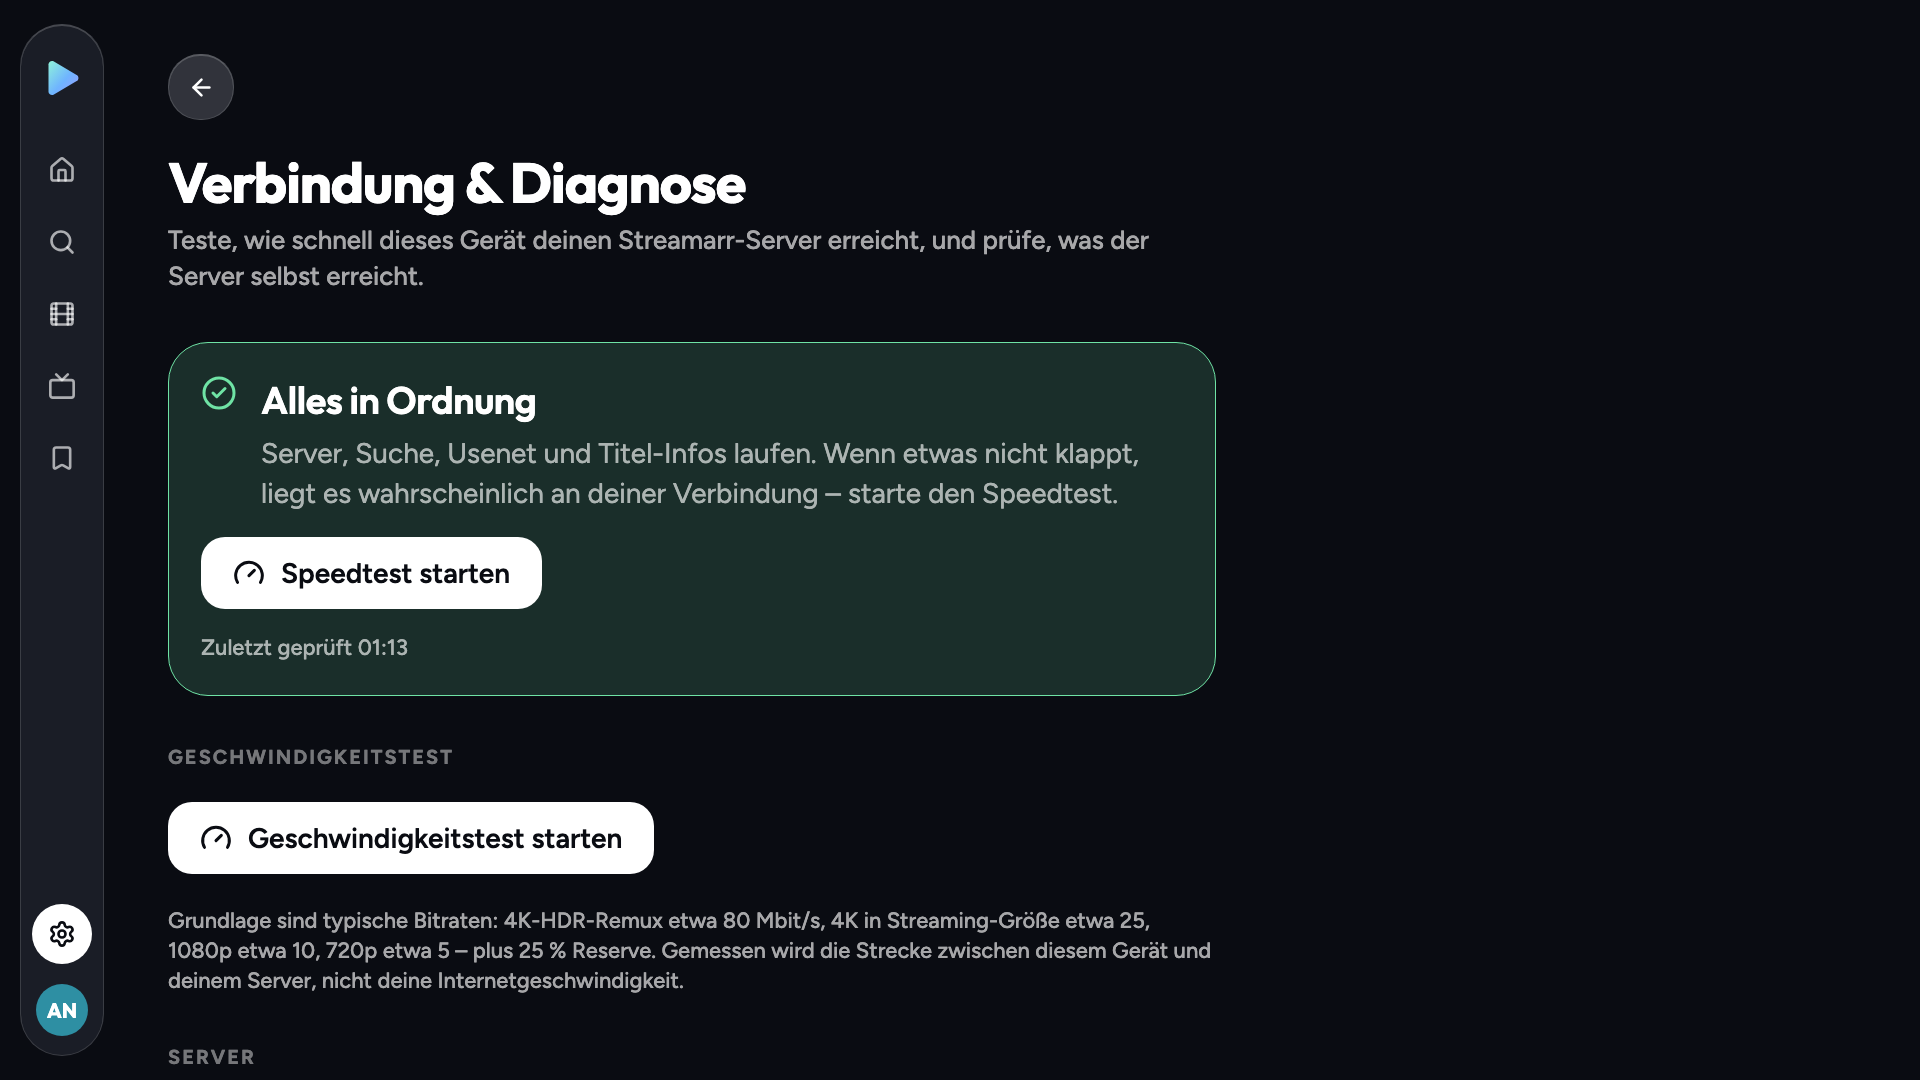
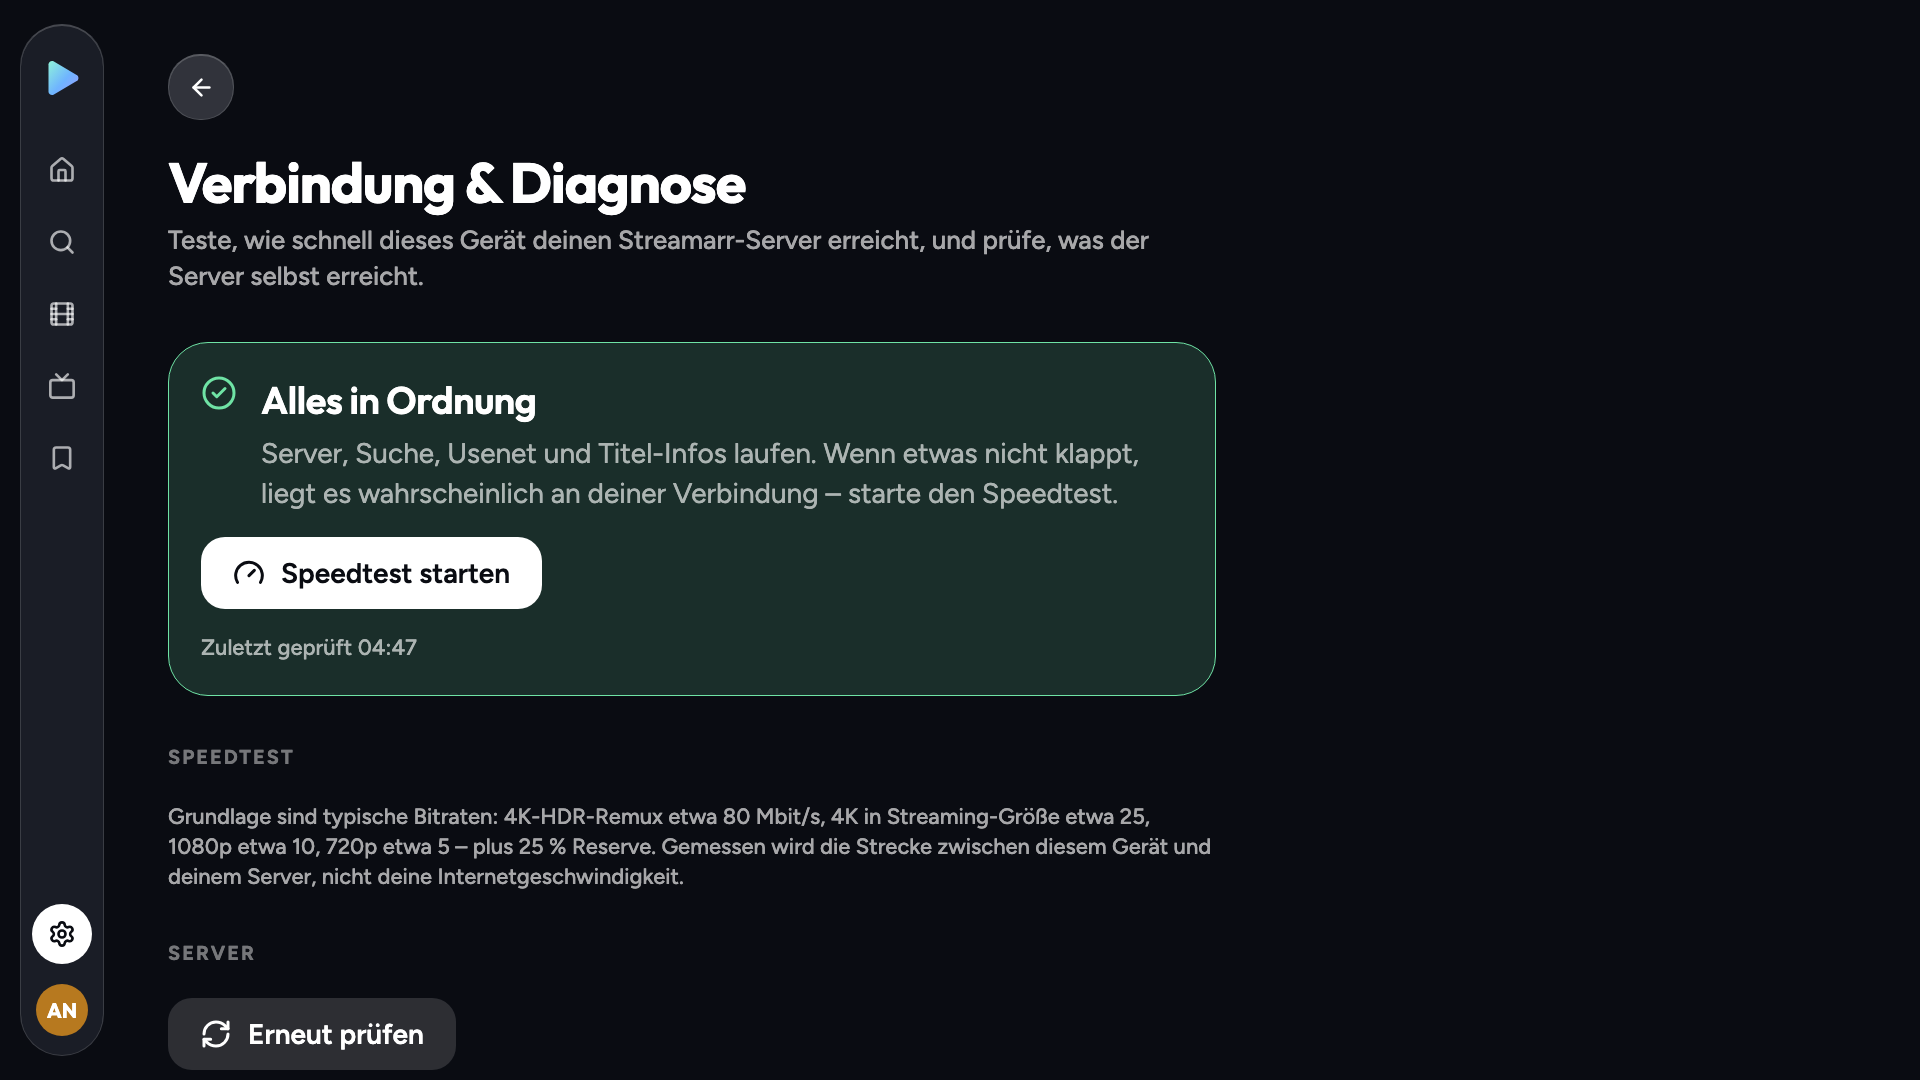
docs: outage-led failure card and single speed test (STATUS follow-up, screenshots)

Changed region(s): [[0.0, 0.7333, 0.625, 1.0], [0.0938, 0.6722, 0.2188, 0.7028], [0.1875, 0.5806, 0.2188, 0.6111]]

diff --git a/docs/client/journal/STATUS.md b/docs/client/journal/STATUS.md
@@ -85,3 +85,34 @@ Commits: e815343 server, 47c2f94 web, cc54516 client, 81d1712 client fix, 645dc6
 - Dev World's failure card for Usenet down shows release_dead (the server's classification); the card's outage line
   still names the cause.
 - The 13 transcoding test failures with ffmpeg 9.0.1 remain (environment).
+
+## Follow-up (2026-10-24): outage-led failure card, one speed test button
+
+Status: done
+
+- Failure card: while the status reports a problem whose impacts include playbackUnavailable/playbackMayFail with a
+  broken usenet or server category (`playbackOutage`, same mapping as the server's impacts; search, TMDB and
+  slowness never count), the card leads with "Störung auf dem Server" / "Server-side outage", the body names the
+  category + impact + "not your device" (+ "Der Admin wird automatisch benachrichtigt." only with adminNotified), and
+  the buttons are Serverstatus anzeigen (primary, TV initial focus) · Erneut versuchen · Andere Version wählen (only if
+  the server offered it) · Zurück; lower quality / VLC are dropped. Footnote line, release reason and the "pick another
+  version" hint are hidden then. Without an outage the card is unchanged.
+- Decision: failures an outage cannot explain keep their own card even during an outage (sign-in, access, not_found,
+  the device's connection, app-internal codes such as player_internal_error/player_load_failed, capability errors).
+- Decision: the status is read in a small FailureCause component under the card, so the player itself does not
+  subscribe to the polled status query during playback (render-loop test).
+- Diagnostics: exactly one "Speedtest starten" / "Start speed test". All fine + idle: only the verdict's button; it
+  starts the test, scrolls to the speed section (native) and moves focus to its button (TV preferred focus, web
+  useInitialFocus), which from then on is "Erneut testen" (+ Abbrechen while running) while the verdict's button goes.
+  During a problem the verdict keeps "Erneut prüfen" and the speed section its own start button. de wording:
+  "Speedtest" everywhere (section title, button, error); en "Start speed test" in both keys.
+- Verification: client tsc ok, expo lint ok, prettier ok, jest 2188/2190 (194 suites; the 2 tab-guard failures are
+  pre-existing). New tests: card-actions (2), failure card outage/no-outage/TV focus/sign-in (4), playbackOutage +
+  German message (2), single speed button + handoff and problem-state button (in the verdict/settings tests).
+- Screenshots (Dev World 39320 --tree, Expo web 39321, Usenet down via provider username "nobody", Pushover on):
+  docs/client/screenshots/STATUS/web-tv-1920-player-failure-outage-de.png, web-phone-390-player-failure-outage-de.png,
+  web-tv-1920-player-failure-no-outage-de.png (resolve_dead fault, no outage: unchanged card), web-tv-1920-diagnostics-ok-de.png
+  (refreshed, one button), web-tv-1920-diagnostics-ok-after-speedtest-de.png (focus on "Erneut testen").
+  web-tv-1920-player-failure-de.png (old footnote card) removed. Stack stopped afterwards.
+- Open: on the 390 px phone the start stepper's long release names overflow the card sideways (pre-existing, not part
+  of this change). TV focus verified in jest only (no device run).

diff --git a/docs/client/JOURNAL.md b/docs/client/JOURNAL.md
@@ -171,3 +171,4 @@ Append-only. One line per task outcome; details in `journal/<TASK-ID>.md`.
 - DIAG · follow-up · done · speed test needs ~20 requests (one long download per stream, few large uploads), rate limits per signed-in user instead of IP, web phases run the full 8 s; three tests in a row without 429 (server, client, web tests + live run) → journal/DIAG.md
 - MYLIST · done · My List tab: auto-added started series + manual movies/series/seasons, derived status/progress, server monitor flags new episodes only once usable releases exist (bounded, indexer-safe), badge on rail/native tabs/web bar, list toggles on details, Pushover opt-in; server MyList 7/7, Server.Tests 1569/1582 (13 transcoding tests fail on local ffmpeg 9, untouched code), web 245/245, jest 2142/2144 (tab-guard fails on base too) → journal/MYLIST.md
 - STATUS · done · viewer service status: server tracks search/Usenet/metadata/server with since + impacts (background check, never per request, redacted) and an opt-in debounced Pushover outage/recovered event; app banner on Home/Search/My List, plain verdict on Connection & diagnostics, Settings status entry + tab dot, "Show server status" on the failure card and search error; Server 1629/13 (ffmpeg), web 264/264, jest 2180/2182 (2 pre-existing) → journal/STATUS.md
+- STATUS · follow-up · done · failure card leads with a server-side outage (Serverstatus first, TV focus, Andere Version only low) when Usenet/server explain the failure; diagnostics has one "Speedtest starten" that hands over to the speed section; jest 2188/2190 (2 pre-existing) → journal/STATUS.md

diff --git a/docs/viewers.md b/docs/viewers.md
@@ -182,7 +182,8 @@ My List names the affected service — Usenet provider, release search (indexers
 itself — since when, and what it means ("Playback may fail right now. It's the server, not your device."). Settings
 starts with a status entry, and the Settings tab carries a dot during a problem. *Connection & diagnostics* opens with
 a plain verdict: all fine means the viewer's own connection is the likely cause (with a speed test), otherwise what
-does and doesn't work. Viewers never see names, hosts or error texts (`GET /api/v1/viewer/diagnostics/status`,
+does and doesn't work. When playback fails during a Usenet or server outage, the player's failure card leads with the
+outage ("Server-side outage", not your device) and offers *Show server status* first instead of another version. Viewers never see names, hosts or error texts (`GET /api/v1/viewer/diagnostics/status`,
 [API](api.md)). The server checks every few minutes on its own
 ([configuration](configuration.md#viewer-service-status)); with *Service outage / recovered* on in the notification
 settings the operator gets one Pushover message when a problem has lasted two checks and one when it is fixed, and
